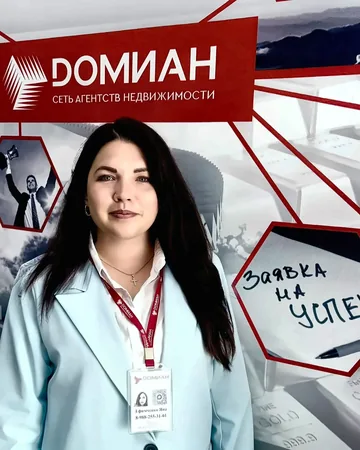
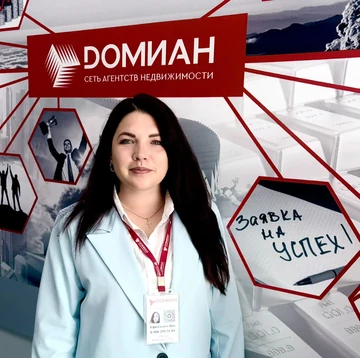
Fix team portraits, mobile framing and office ownership copy

diff --git a/tests/site.spec.js b/tests/site.spec.js
@@ -289,7 +289,8 @@ test("Maria portrait is responsive, dimensioned and loads on trust pages", async
 });
 
 test("team cards and agent portraits fit desktop and mobile without overflow", async ({ page }) => {
-  for (const viewport of [{ width: 390, height: 844 }, { width: 1440, height: 900 }]) {
+  await page.emulateMedia({ reducedMotion: "reduce" });
+  for (const viewport of [{ width: 320, height: 740 }, { width: 434, height: 861 }, { width: 820, height: 900 }, { width: 1440, height: 900 }]) {
     await page.setViewportSize(viewport);
     await page.goto("team/index.html");
     const cards = page.locator(".team-card");
@@ -298,6 +299,24 @@ test("team cards and agent portraits fit desktop and mobile without overflow", a
     await expect(cards.nth(1)).toHaveAttribute("data-team-member", "olga-chernenko");
     await expect(cards.nth(2)).toHaveAttribute("data-team-member", "maria-smolina");
     await expect(cards.nth(3)).toHaveAttribute("data-team-member", "yana-efimchenko");
+    const hero = page.locator(".hero-agent");
+    await expect(hero.locator("img")).toHaveAttribute("alt", /Мария Воронина/u);
+    await expect(hero.locator(".hero-agent__caption")).toContainText("Собственник офиса");
+    await expect(page.locator('[data-editorial-image="client-meeting"]')).toHaveCount(0);
+    await page.evaluate(async () => {
+      await document.fonts.ready;
+      await document.querySelector(".hero-agent img").decode();
+    });
+    await expect.poll(() => page.evaluate(() => {
+      const contentBottom = Math.max(...[...document.querySelectorAll(".page-hero__copy, .hero-agent")].map((node) => node.getBoundingClientRect().bottom));
+      return document.querySelector("#team-members .section-heading").getBoundingClientRect().top - contentBottom;
+    }), { message: `team content gap at ${viewport.width}px` }).toBeLessThanOrEqual(100);
+    for (const image of await cards.locator("img").all()) {
+      await image.scrollIntoViewIfNeeded();
+      await expect.poll(() => image.evaluate((node) => node.naturalWidth)).toBeGreaterThan(0);
+      const dimensions = await image.evaluate((node) => ({ width: node.clientWidth, height: node.clientHeight, ratio: node.naturalHeight / node.naturalWidth }));
+      expect(Math.abs(dimensions.height - dimensions.width * dimensions.ratio)).toBeLessThanOrEqual(1);
+    }
     const olga = cards.nth(1).locator('img[alt*="Черненко Ольга"]');
     await olga.scrollIntoViewIfNeeded();
     await expect(olga).toBeVisible();
@@ -308,6 +327,26 @@ test("team cards and agent portraits fit desktop and mobile without overflow", a
     expect((await smolina.evaluate((node) => node.currentSrc))).toMatch(/maria-smolina-(?:360|640|960)\.webp$/u);
     const dimensions = await page.evaluate(() => ({ scroll: document.documentElement.scrollWidth, client: document.documentElement.clientWidth }));
     expect(dimensions.scroll, `team at ${viewport.width}px`).toBeLessThanOrEqual(dimensions.client + 1);
+  }
+});
+
+test("profile portraits preserve the full image and captions stay below it", async ({ page }) => {
+  await page.emulateMedia({ reducedMotion: "reduce" });
+  for (const width of [320, 434, 820, 1440]) {
+    await page.setViewportSize({ width, height: 900 });
+    for (const slug of ["maria-voronina", "olga-chernenko", "maria-smolina", "yana-efimchenko"]) {
+      await page.goto(`team/${slug}.html`);
+      const image = page.locator(".hero-agent img");
+      await expect.poll(() => image.evaluate((node) => node.naturalWidth)).toBeGreaterThan(0);
+      const geometry = await image.evaluate((node) => {
+        const photo = node.getBoundingClientRect();
+        const caption = node.closest(".hero-agent").querySelector(".hero-agent__caption").getBoundingClientRect();
+        return { width: photo.width, height: photo.height, ratio: node.naturalHeight / node.naturalWidth, bottom: photo.bottom, captionTop: caption.top };
+      });
+      expect(Math.abs(geometry.height - geometry.width * geometry.ratio), `${slug} at ${width}px`).toBeLessThanOrEqual(1);
+      expect(geometry.captionTop).toBeGreaterThanOrEqual(geometry.bottom - 1);
+      expect(await page.evaluate(() => document.documentElement.scrollWidth - document.documentElement.clientWidth)).toBeLessThanOrEqual(1);
+    }
   }
 });
 

diff --git a/assets/css/site.css b/assets/css/site.css
@@ -2497,15 +2497,15 @@ textarea {
 .team-card__media,
 .team-card__media picture {
   display: block;
-  min-height: 100%;
+  min-height: 0;
+  align-self: start;
 }
 
 .team-card__media img {
   display: block;
   width: 100%;
-  height: 100%;
-  min-height: 520px;
-  object-fit: cover;
+  height: auto;
+  object-fit: contain;
   object-position: center 32%;
 }
 
@@ -3647,8 +3647,7 @@ textarea {
   }
 
   .team-card__media img {
-    min-height: 0;
-    aspect-ratio: 4 / 5;
+    height: auto;
   }
 
   .team-card__role {
@@ -6416,23 +6415,19 @@ body[data-page-type="home"] .hero-media__picture {
 
 .hero-agent picture {
   display: block;
-  aspect-ratio: 4 / 5;
   overflow: hidden;
 }
 
 .hero-agent img {
   display: block;
   width: 100%;
-  height: 100%;
-  object-fit: cover;
+  height: auto;
+  object-fit: contain;
   object-position: center 24%;
 }
 
 .hero-agent__caption {
-  position: absolute;
-  right: 14px;
-  bottom: 14px;
-  left: 14px;
+  position: relative;
   display: grid;
   border-left: 3px solid var(--champagne);
   border-radius: 8px;
@@ -6453,6 +6448,19 @@ body[data-page-type="home"] .hero-media__picture {
   font-size: 0.66rem;
   letter-spacing: 0.06em;
   text-transform: uppercase;
+}
+
+body[data-page-type="team"] .page-hero--team:has(.hero-agent) {
+  min-height: 0;
+  padding-bottom: 40px;
+}
+
+.page-hero--team .hero-agent {
+  width: min(100%, 340px);
+}
+
+body[data-page-type="team"] #team-members {
+  padding-top: 40px;
 }
 
 .profile-summary-section {
@@ -6765,7 +6773,7 @@ body[data-page-type="home"] .hero-media__picture {
   }
 
   .hero-agent picture {
-    aspect-ratio: 16 / 10;
+    height: auto;
   }
 
   .hero-agent img {
@@ -6828,9 +6836,6 @@ body[data-page-type="home"] .hero-media__picture {
   }
 
   .hero-agent__caption {
-    right: 9px;
-    bottom: 9px;
-    left: 9px;
     padding: 9px 11px;
   }
 
